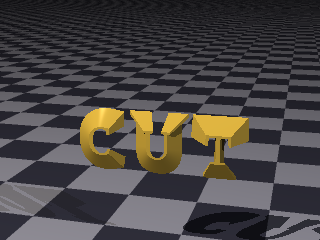
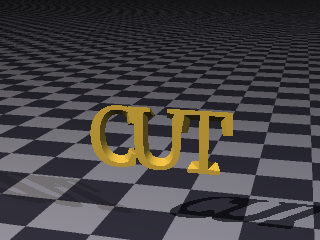
Move the lantern back and stand the word up
The lantern sat almost in the camera's lap, so it and the bulb inside it both move a unit and a
third away.  The bulb has to travel with it: the shade glows because it is a shell with a lamp
inside, and a shade left behind its own lamp is just a shade.

Standing the word up changed what the taper does to it, and showed that the documentation had
this backwards.  A taper says what is left of the outline at the "max Y" end, and standing text
up with `rotate X -90` turns that end *towards* the reader -- so a taper under 1 gives letters
that are narrow at the front and flare away behind, and it is a taper over 1 that gives the
raised, chiselled look the docs claimed.  There is no rotation that both stands text up and swaps
the two ends; one that did would read the letters backwards.  The word and the worked example
both now taper over 1, and the docs say which way round it goes and why.

Two things worth knowing came out of it.  The taper is spread across the letters' depth, so
scaling text down evenly makes it shallower as well as smaller and the bevel then falls away
almost flat against the reader -- the word gets its depth back explicitly.  And a taper much over
about 1.5 runs the letters into one another, each spreading about its own middle into whatever
gap the layout left.

diff --git a/docs/advanced-surfaces.md b/docs/advanced-surfaces.md
@@ -794,23 +794,32 @@ The complete scene is [`docs/examples/advanced/text.igl`](examples/advanced/text
 
 `tapered text` scales each glyph as it is given depth, the same way
 [`tapered extrusion`](#tapered-extrusion) scales an outline as it rises — which is no coincidence,
-since a text solid *is* a group of extrusions, one per glyph.  The letters come out chiselled: full
-size on the face you read, drawn in behind it.
+since a text solid *is* a group of extrusions, one per glyph.  The letters come out chiselled:
+widest on the face you read, sloping away behind it.
 
 ![Tapered text](images/figures/adv-tapered-text.png)
 
 ```
 tapered text {
-    taper 0.45
+    taper 1.3
     text 'CUT'
     font 'Merriweather'
     rotate X -90
 }
 ```
 
-Everything ordinary [text](#text) takes, this takes too.  `taper` means what it means for an
-extrusion: what is left of the glyph's size at the far face, with 1 leaving the letters alone and 0
-bringing each to a ridge.  Over 1 spreads them, so the letters are widest at the back.
+Everything ordinary [text](#text) takes, this takes too, and `taper` means what it means for an
+extrusion: what is left of the outline at the `max Y` end.
+
+**Which end that is, once the text is standing up, is the opposite of what you may expect.**
+Standing text up with `rotate X -90` turns the `max Y` end towards the reader, so it is a taper
+**over 1** that puts the widest face forward — the raised, chiselled look above.  A taper under 1
+turns the letters the other way about, narrow at the front and flaring away behind, which is a
+perfectly good effect but not that one.  There is no rotation that stands text up *and* swaps the
+two ends: any that did would also read the letters backwards.
+
+Much over about 1.5 and the letters start to grow into one another, since each spreads about its
+own middle into whatever gap the layout left.
 
 **Each glyph is tapered about its own middle, not about the scene's Y axis.**  That is the one
 place this differs from an extrusion, and it has to: a line of text is laid out along X, so every
